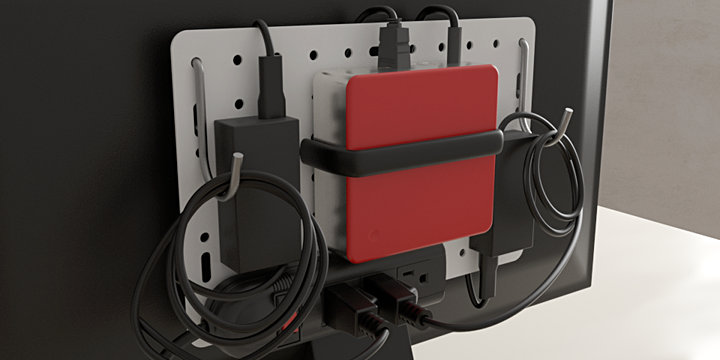
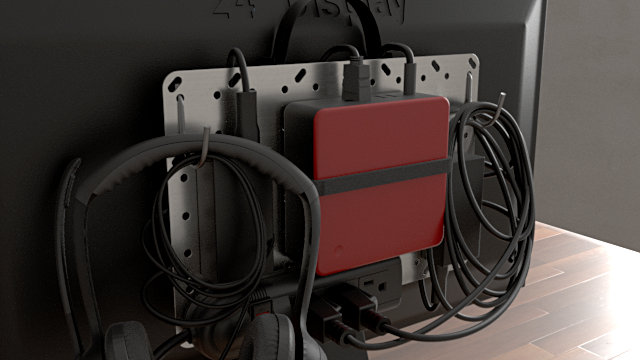
added image to slideshow

diff --git a/shop/vidock-plate.html b/shop/vidock-plate.html
@@ -32,6 +32,10 @@ warning:
         <p><strong>How…</strong> to attach your mess to ViDock-Plate.</p>
       </div>
       <div>
+        <img class="img-responsive" style="max-width: 640px" src="{{site.baseurl}}/images/vidock-plate/ViDock-Plate-Kit-Why-01-540.jpg">
+        <p><strong>Who…</strong> is inspired by a clean desk!</p>
+      </div>
+      <div>
         <img class="img-responsive" src="{{site.baseurl}}/images/vidock-plate/ViDock-Plate-Kit-Docking.jpg">
         <p><strong>Example Docking:</strong> Holds and hides any docking station</p>
       </div>
@@ -54,6 +58,14 @@ warning:
       <div>
         <img class="img-responsive" src="{{site.baseurl}}/images/vidock-plate/ViDock-Plate-Kit-Charging.jpg">
         <p><strong>Charging Station:</strong>  Add charging without adding clutter.</p>
+      </div>
+      <div>
+        <img class="img-responsive" src="{{site.baseurl}}/images/vidock-plate/ViDock-Plate-Kit-Grow.jpg">
+        <p><strong>Grow:</strong> ViDock-System grows with your needs.</p>
+      </div>
+      <div>
+        <img class="img-responsive" src="{{site.baseurl}}/images/vidock-plate/ViDock-Plate-Kit-Deeper.jpg">
+        <p><strong>Deeper:</strong> More Ideas and Know How → <a href="#">UNDERSTANDING</a></p>
       </div>
     </slick>
   </div>
